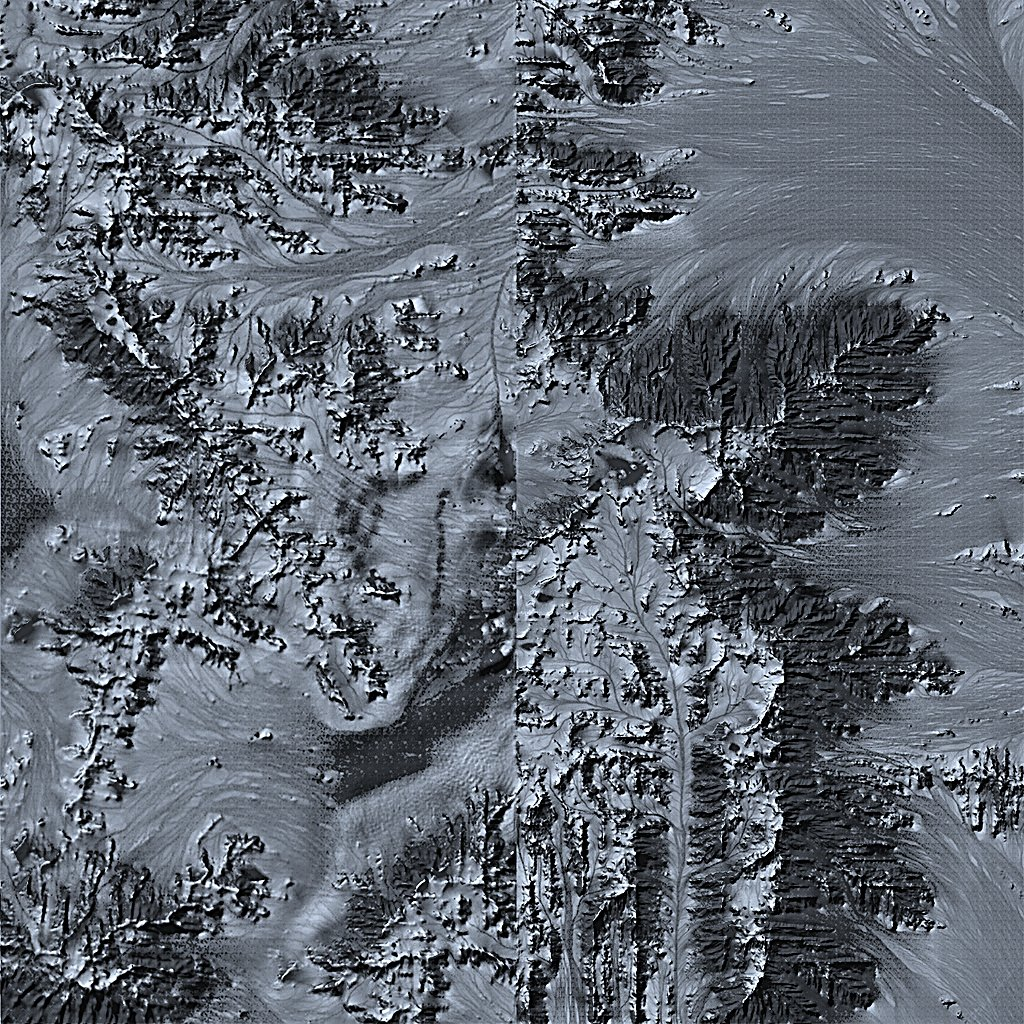
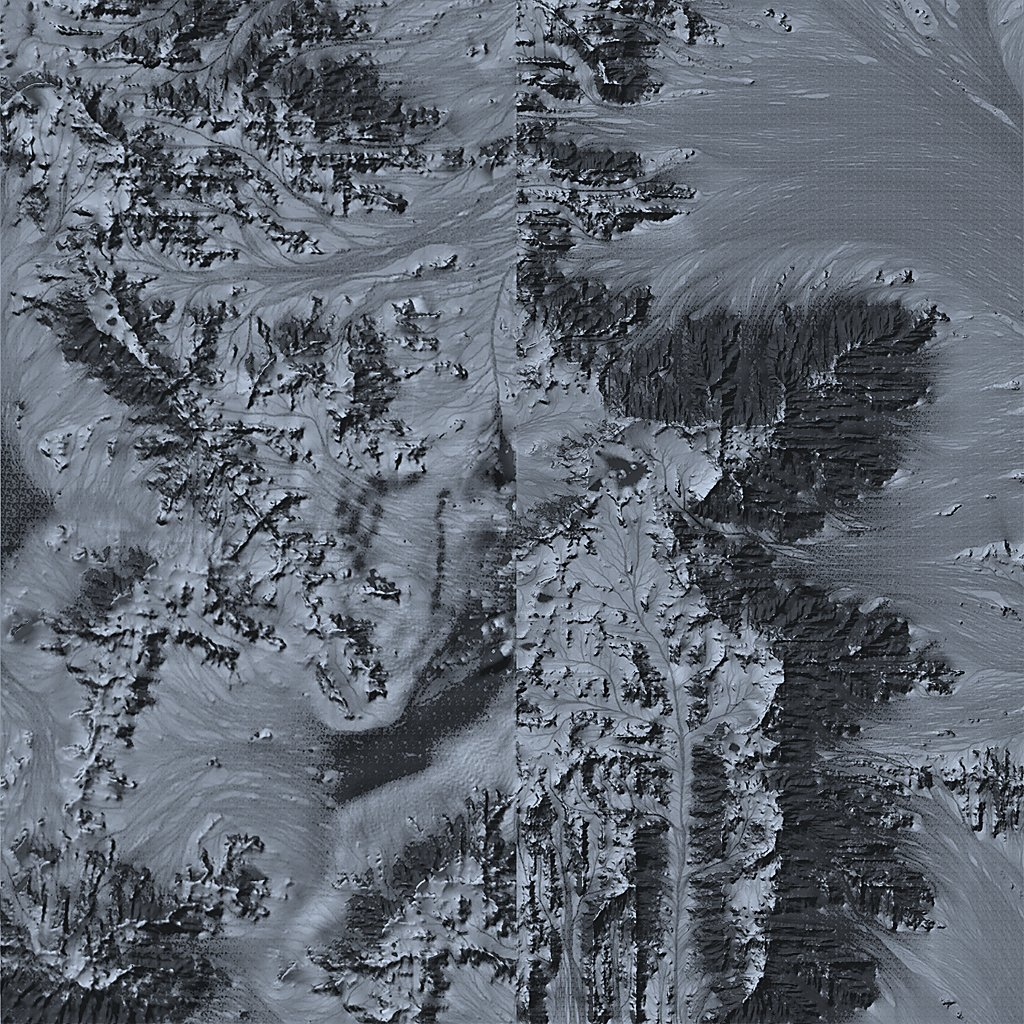
Fix crash when opening the base builder; fix zigzag mountain texture
- BuilderUi: a local string named caps shadowed the imported caps() function, so rendering the builder threw 'caps is not a function'
- StormMountains: remove the mirrored high-frequency detail layer (it produced kaleidoscope chevrons on the slopes); re-bake m1/m2 with gentler relief and sharpening

Claude-Session: https://claude.ai/code/session_01AyrwQmVMdZ44xQqjDx9n4V

diff --git a/src/components/universe/surface/StormMountains.tsx b/src/components/universe/surface/StormMountains.tsx
@@ -8,8 +8,6 @@ import {
   DoubleSide,
   Mesh,
   MeshBasicMaterial,
-  MirroredRepeatWrapping,
-  NoColorSpace,
   RepeatWrapping,
   SRGBColorSpace,
   TextureLoader,
@@ -42,11 +40,6 @@ export function StormMountains({ lightning }: { lightning: { flash: number } }) 
     let cancelled = false;
     const added: Mesh[] = [];
     const loader = new TextureLoader();
-    // fine rock grain multiplied over the baked maps, so the slopes stay sharp up close
-    const detail = loader.load("/models/storm/ground.jpg");
-    detail.colorSpace = NoColorSpace;
-    detail.wrapS = detail.wrapT = MirroredRepeatWrapping;
-    detail.anisotropy = Math.min(12, gl.capabilities.getMaxAnisotropy());
     (async () => {
       const buf = await fetch("/models/storm/mtn.bin").then((r) => r.arrayBuffer());
       if (cancelled) return;
@@ -99,14 +92,6 @@ export function StormMountains({ lightning }: { lightning: { flash: number } }) 
         t.wrapS = t.wrapT = RepeatWrapping;
         t.anisotropy = Math.min(12, gl.capabilities.getMaxAnisotropy());
         const mat = new MeshBasicMaterial({ map: t, vertexColors: true, side: DoubleSide });
-        mat.onBeforeCompile = (sh) => {
-          sh.uniforms["uDet"] = { value: detail };
-          sh.fragmentShader = "uniform sampler2D uDet;\n" + sh.fragmentShader.replace(
-            "#include <map_fragment>",
-            "#include <map_fragment>\n  diffuseColor.rgb *= 0.62 + texture2D(uDet, vMapUv * 13.0).r * 0.76;"
-          );
-        };
-        mat.customProgramCacheKey = () => "storm-mtn-detail";
         mats.current.push(mat);
         const mesh = new Mesh(g, mat);
         mesh.scale.setScalar(SCALE);
@@ -117,7 +102,6 @@ export function StormMountains({ lightning }: { lightning: { flash: number } }) 
     })().catch(() => undefined);
     return () => {
       cancelled = true;
-      detail.dispose();
       mats.current = [];
       for (const m of added) {
         group.remove(m);

diff --git a/src/components/universe/lab/BuilderUi.tsx b/src/components/universe/lab/BuilderUi.tsx
@@ -11,7 +11,7 @@ import {
   SHOP,
   TYPES,
   bufferSize,
-  caps,
+  caps as resourceCaps,
   gameStore,
   perMinute,
   stored,
@@ -136,7 +136,7 @@ export function BuilderUi({ lang }: { lang: Locale }) {
   const caps = lang === "en" ? "uppercase tracking-[0.14em]" : "";
   const sel = selected !== null ? skills[selected] : undefined;
   const nameOf = (i: number) => u.names[i % 9] ?? skills[i]?.name ?? "";
-  const cap = caps(g.buildings);
+  const cap = resourceCaps(g.buildings);
   const gsel = g.selected ? g.buildings.find((b) => b.id === g.selected) : undefined;
   const gdef = gsel ? TYPES[gsel.type] : undefined;
   const up = gsel ? upgradeCost(gsel) : null;
